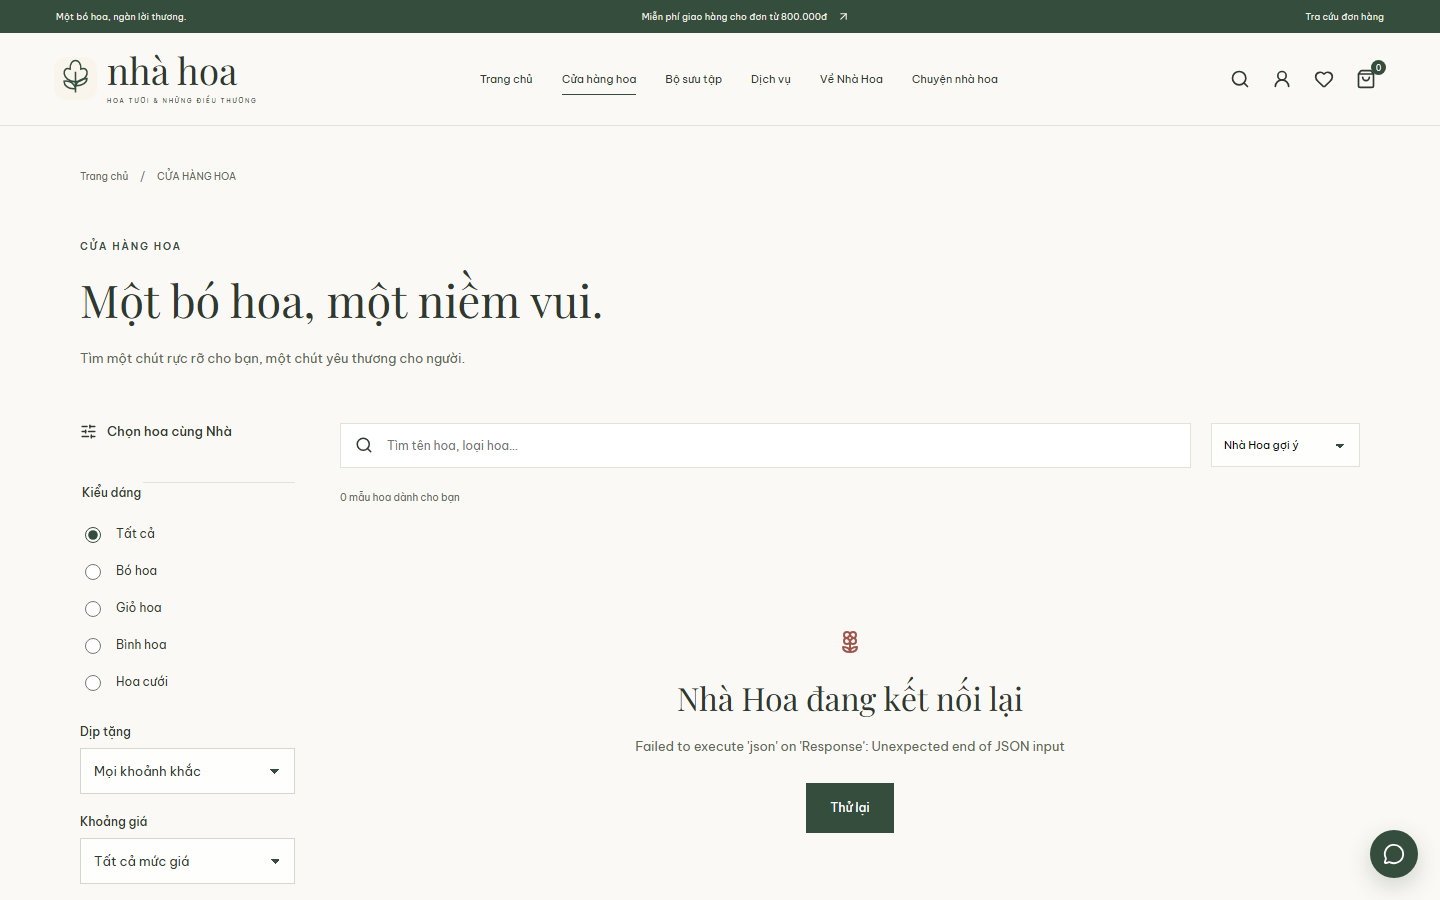
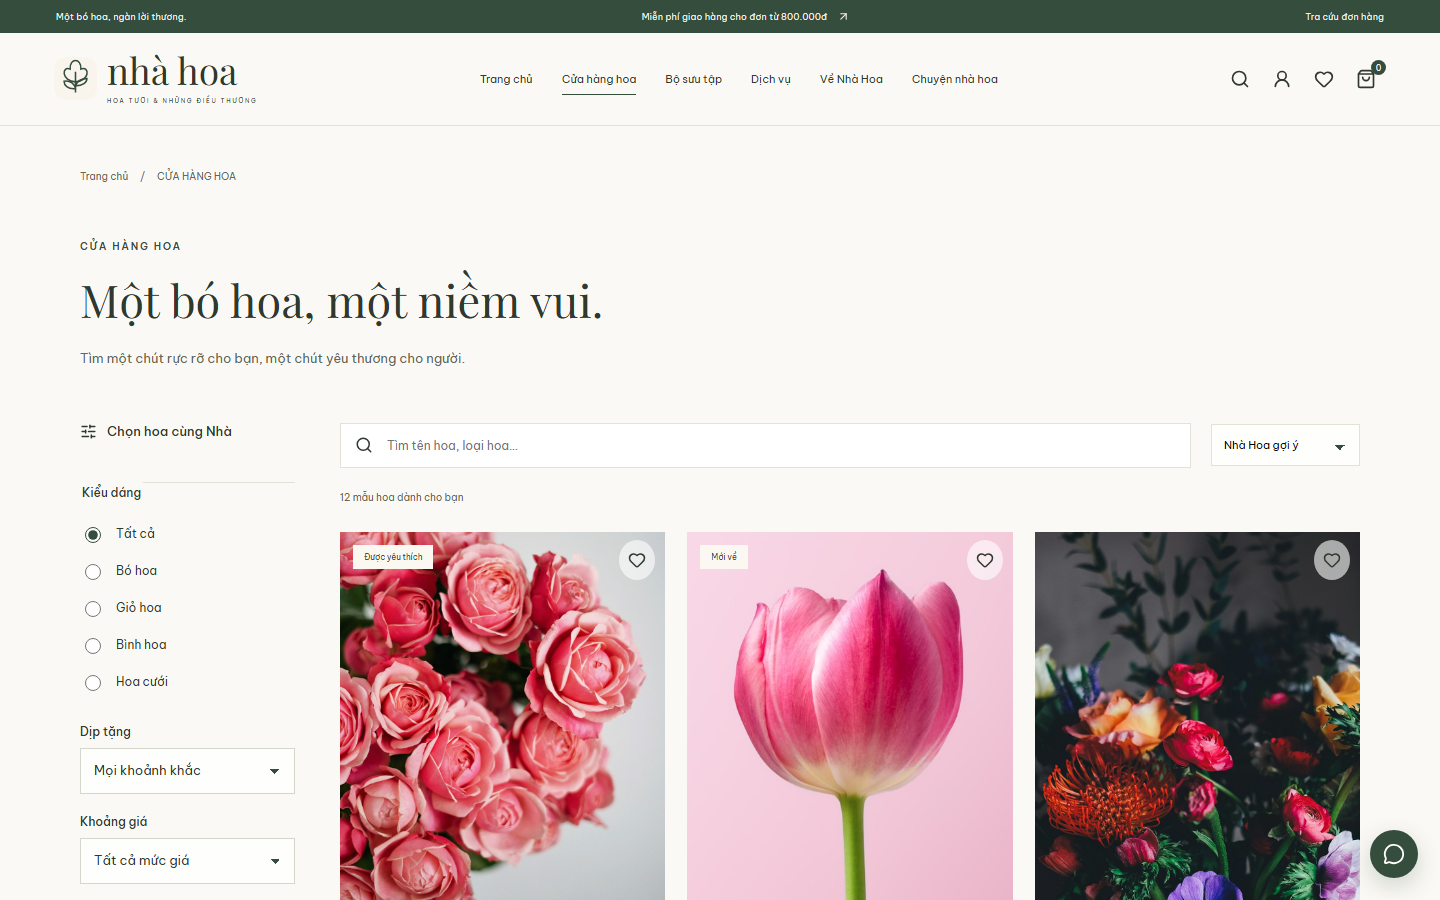
docs: refresh shop screenshots with database products

diff --git a/README.md b/README.md
@@ -17,7 +17,7 @@ Website bán hoa tiếng Việt sử dụng **React + TypeScript**, **Express + 
   </tr>
   <tr>
     <td align="center"><img src="docs/screenshots/login.png" alt="Đăng nhập Nhà Hoa" width="420"><br><sub>Đăng nhập</sub></td>
-    <td></td>
+    <td align="center"><img src="docs/screenshots/product-detail.png" alt="Chi tiết sản phẩm" width="420"><br><sub>Chi tiết sản phẩm</sub></td>
   </tr>
 </table>
 
